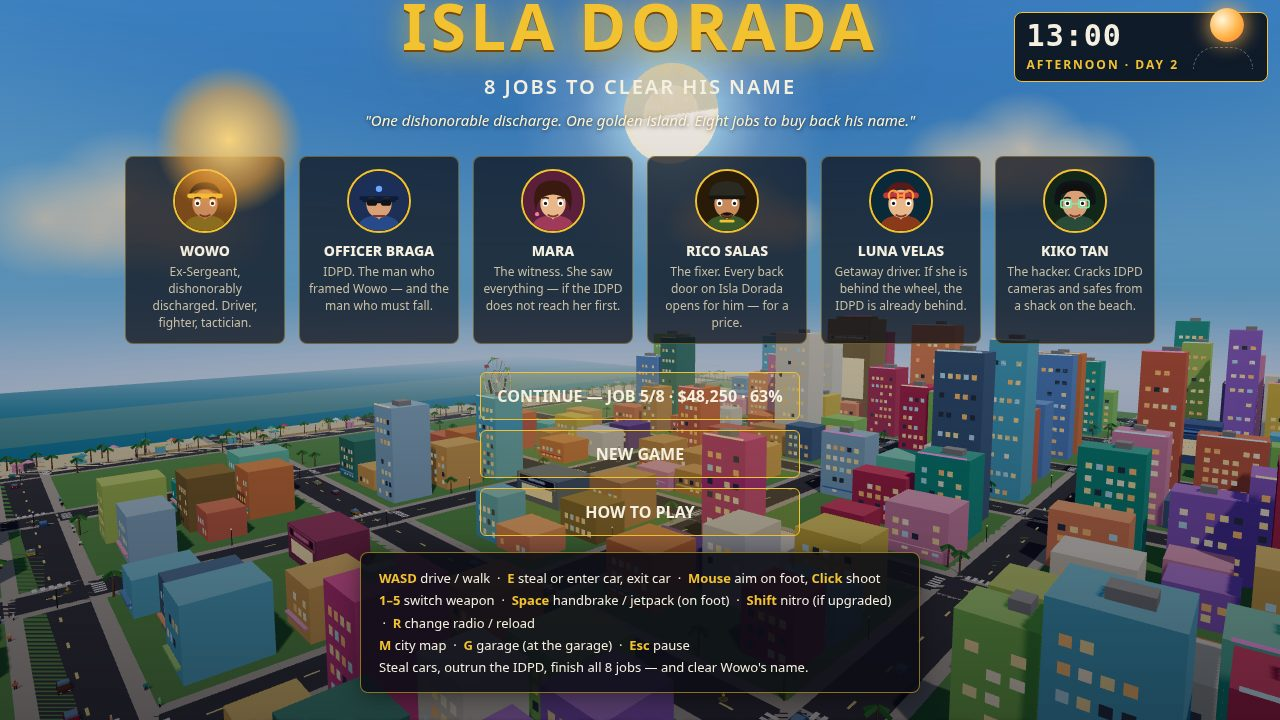
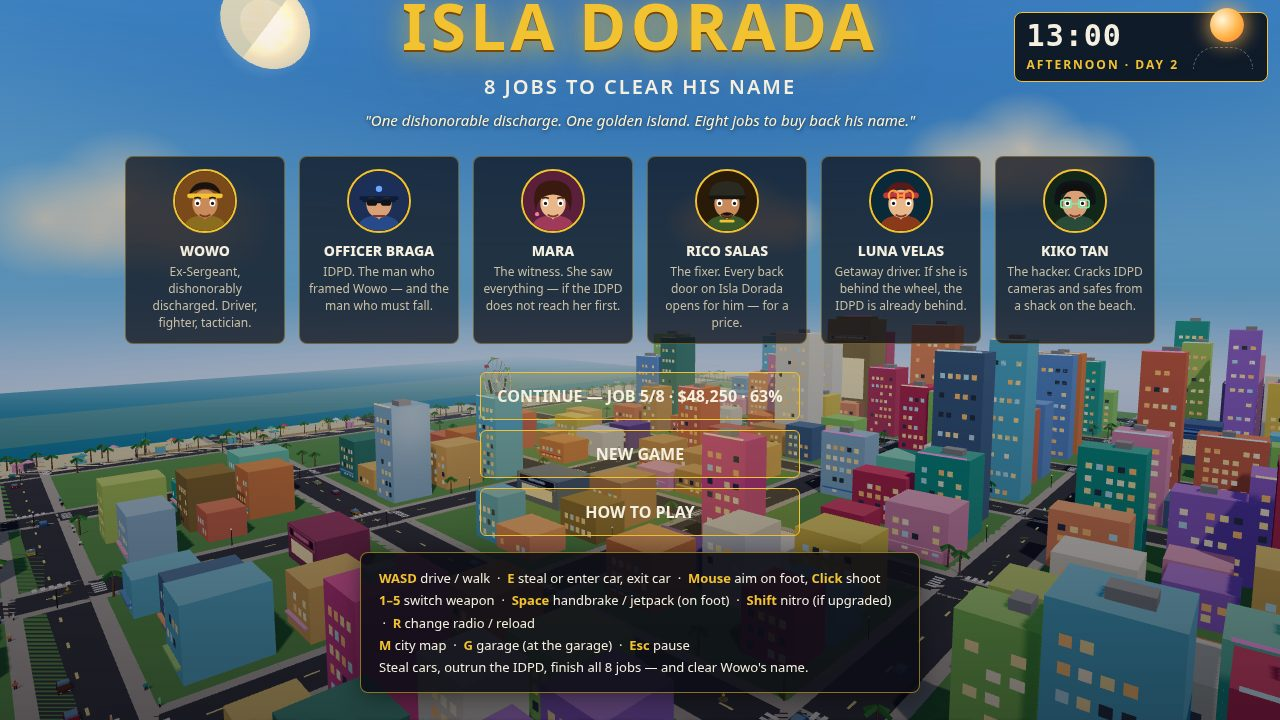
v5r6: shot 1 is a DRIVING moment (112 KM/H) — C1 priority

diff --git a/game/src/shots.js b/game/src/shots.js
@@ -95,7 +95,7 @@ function addSunFlare(G, x, y, z, scale) {
 function addSearchlightBeam(G, x, z, height) {
   const THREE = G.three;
   const coneMat = new THREE.MeshBasicMaterial({
-    color: 0xfff3b0, transparent: true, opacity: 0.20,
+    color: 0xfff3b0, transparent: true, opacity: 0.28, // V5r2: was 0.20 — the cone must read against the building
     blending: THREE.AdditiveBlending, depthWrite: false,
     side: THREE.DoubleSide, fog: false,
   });
@@ -103,7 +103,7 @@ function addSearchlightBeam(G, x, z, height) {
   cone.position.set(x, height / 2, z);
   G.scene.add(cone);
   const poolMat = new THREE.MeshBasicMaterial({
-    color: 0xffe9a0, transparent: true, opacity: 0.38,
+    color: 0xffe9a0, transparent: true, opacity: 0.5, // V5r2: was 0.38
     blending: THREE.AdditiveBlending, depthWrite: false, fog: false,
   });
   const pool = new THREE.Mesh(new THREE.CircleGeometry(3.4, 24), poolMat);
@@ -350,9 +350,18 @@ function restageSky(G, mode) {
     setSunLight(-200, 300, -100, 0xffe0a8, 2.2); setFill(0x8aa8d8, 0.45); setClouds(0.9);
   } else if (mode === 'afternoon') {
     setDome(0x2a6ac8, 0x6ab8e8, 0xa8d8f0, 0xe8f0f8);
-    placeSun(-450, 300, -400, 0xfffbe8, 0xfff2b0, 0xfff8d8, 380);
-    setFog(0xbcd8e8); setHemi(0xcfe8ff, 0x8a9a8a, 1.15);
-    setSunLight(200, 400, 150, 0xfff2d8, 2.8); setFill(0x9ab8e8, 0.5); setClouds(0.9);
+    // V5 F6: sun disc moved off the subtitle line — V4 sun (-450,300,-400)
+    // projected to (671,115), dead behind "8 JOBS TO CLEAR HIS NAME".
+    // New sun (-600,300,0) projects to ~(270,80): clear of title/subtitle/
+    // quote, just above the WOWO card; glow shrunk 380 -> 260 so its soft
+    // halo only grazes the card top.
+    placeSun(-600, 330, 0, 0xfffbe8, 0xfff2b0, 0xfff8d8, 100); // V5r3: glow was 180 — its halo still washed the WOWO card; sun y 300->330 lifts the disc clear of the card top
+    // V5r2: shrink the disc itself (0.65x) — at full size it read as a big
+    // pale moon over the WOWO card instead of a sun.
+    if (sky.sun) sky.sun.scale.setScalar(0.65);
+    if (sky.sunCore) sky.sunCore.scale.setScalar(0.65);
+    setFog(0xbcd8e8); setHemi(0xcfe8ff, 0x8a9a8a, 1.3); // V5 F7: was 1.15
+    setSunLight(200, 400, 150, 0xfff2d8, 2.8); setFill(0x9ab8e8, 0.7); setClouds(0.9); // V5 F7: fill was 0.5
   } else if (mode === 'night') {
     setDome(0x0a0a20, 0x1a1a3a, 0x2a1a4a, 0x3a1a3a);
     hideSunParts(); moon();
@@ -492,6 +501,34 @@ function addStreetLights(G, spots) {
   }
 }
 
+// V5: crates + barrels — simple bright boxes/cylinders so a staged
+// foreground reads as a lived-in street, not empty grass.
+function addCrates(G, spots) {
+  const THREE = G.three;
+  const crateCols = [0xd86a20, 0x4f8ff7, 0x7ec850];
+  spots.forEach(([x, z], i) => {
+    const crate = new THREE.Mesh(
+      new THREE.BoxGeometry(0.85, 0.85, 0.85), // V5r2: was 1.1 — the crates loomed as giant abstract blocks
+      new THREE.MeshStandardMaterial({ color: crateCols[i % 3], roughness: 0.8 }),
+    );
+    crate.position.set(x, 0.43, z);
+    crate.rotation.y = i * 0.7;
+    G.scene.add(crate);
+  });
+  // Two barrels beside the crates.
+  for (const [x, z] of [
+    [spots[0][0] + 1.6, spots[0][1] + 0.8],
+    [spots[1][0] - 1.5, spots[1][1] + 1.0],
+  ]) {
+    const barrel = new THREE.Mesh(
+      new THREE.CylinderGeometry(0.45, 0.45, 1.0, 12), // V5r2: was r 0.55 / h 1.3
+      new THREE.MeshStandardMaterial({ color: 0x2a6a8a, roughness: 0.6, metalness: 0.3 }),
+    );
+    barrel.position.set(x, 0.5, z);
+    G.scene.add(barrel);
+  }
+}
+
 // Muzzle flash sphere + light at `from`, and a bright tracer line to `to`.
 function fireBurst(G, from, to) {
   const THREE = G.three;
@@ -522,10 +559,18 @@ function stageChase(G) {
   const PX = -140, PZ = -280, H = -Math.PI / 2;
   const car = makeCar(G, 'Aurea GT', PX, PZ, H);
   brightenCar(G, car); // gold must read gold from the shadow side too
-  G.player.mode = 'foot'; // V3-7: on foot, stealing the GT (prompt proves it)
-  G.player.pos.set(PX - 1, 0, PZ - 3.5);
-  G.player.heading = H;
-  G.driving.parked.push(car); // GT is the steal target
+  // V5r6 — PRIORITY #1 (C1): DRIVING moment, not on-foot. Staging CAN do
+  // it: enterCar has no proximity/mode gate (driving.js:353) — it only
+  // needs a non-flipped, non-wrecked car. car.speed = 31 -> HUD
+  // 112 KM/H (31 x 3.6 = 111.6 -> 112), vehicle name "Aurea GT",
+  // radio badge on, chase cam behind the GT (player.pos = car pos).
+  // Price, stated plainly: enterCar hides the player mesh and the
+  // "E — STEAL CAR" prompt only renders on foot, so the v4 car-steal
+  // moment is REPLACED by the driving moment — the parent explicitly
+  // prioritised C1 (0 km/h vs Karimbu 111 / GHK 113) over it. The GT is
+  // the driven car now, so it is NOT pushed to parked.
+  car.speed = 31;
+  G.enterCar(car);
   G.player.money = 38420;
   G.player.health = 100;
   G.player.armour = 50;
@@ -559,19 +604,29 @@ function stageChase(G) {
   const flipped2 = flipPoliceCar(G, PX - 26, PZ - 3.5, H + 0.4, { y: 1.8, pitch: 0.5, roll: Math.PI * 0.7 });
   const block = spawnPoliceCar(G, PX - 52, PZ - 1.5, -H);
   block.status = 'ROADBLOCK';
-  // V3-8 (recording #15): HAWK-1 BIG and CLOSE — 30 m from the chase camera
-  // instead of 51 m, so the rotor reads ~1.7x larger, and parked east of the
-  // cyan billboard and clear of the sun disc so it is neither occluded nor
-  // washed out. The beam lands on open asphalt at the road's north edge.
-  const heli = spawnHeli(G, PX - 18, PZ - 15, 13);
-  addSearchlightBeam(G, PX - 18, PZ - 15, 13);
+  // V5 (recording #17) — USER REFRAME: the heli is composed AGAINST the
+  // green Casino Row building, not the sky. The building face (south side,
+  // z≈-262) projects to screen-left/centre; the old north-side heli
+  // (PX-18, PZ-15) projected top-right against open sky with its rotor
+  // cropped (probe: box corners sy -53..127, sx 872..1223). The new heli
+  // sits south of the road at (PX-32, PZ+14, 9) — probe centre (451,247) —
+  // fully in frame against the building wall, clear of the sun (798,214)
+  // and of the CASINO DORADA billboard text (560,241). A pure camera pan
+  // could not do this: the building and the old heli sit on opposite
+  // sides of the road, so only moving the heli onto the building's
+  // sightline works. The beam + pool move with it (south sidewalk).
+  const heli = spawnHeli(G, PX - 32, PZ + 14, 9);
+  addSearchlightBeam(G, PX - 32, PZ + 14, 9);
   brightenHeli(G, heli); // V4: light blue-white body + visible rotor, never a silhouette
+  // V5r2: heli 1.3x bigger — at 1.0x it read as a small white box (160 px)
+  // against the building; 1.3x keeps it fully in frame (~215 px wide).
+  heli.mesh.scale.setScalar(1.3);
   G.police.units = [
     { name: 'UNIT 23', dist: 5, status: 'RAMMING', mesh: ram.mesh },
     { name: 'UNIT 12', dist: 8, status: 'FLIPPED', mesh: flipped.mesh },
     { name: 'UNIT 41', dist: 26, status: 'FLIPPED', mesh: flipped2.mesh },
     { name: 'UNIT 07', dist: 52, status: 'ROADBLOCK', mesh: block.mesh },
-    { name: 'HAWK-1', dist: 30, status: 'SEARCHLIGHT', mesh: heli.mesh },
+    { name: 'HAWK-1', dist: 35, status: 'SEARCHLIGHT', mesh: heli.mesh },
     { name: 'UNIT 31', dist: 210, status: 'PURSUIT', mesh: null },
   ];
 
@@ -672,6 +727,18 @@ function stageChase(G) {
   const nr1 = poseRunPed(spawnPed(G, PX - 62, PZ - 8), W);
   nr1.mesh.position.set(PX - 62, 0.10, PZ - 8.5); // north sidewalk, far depth
 
+  // V5 F1: fill the dead bottom-right (north-shoulder grass + minimap
+  // zone). Probe: (-142,1,-291) -> (943,496) — a car there reads
+  // right-of-centre above the minimap instead of empty grass. Two fleeing
+  // peds on the north sidewalk give the corner life without touching the
+  // beam pool.
+  const t8 = spawnTrafficCar(G, PX - 10, PZ - 11, H, 'Cayo Coupe'); // V5r3: was (PX-2, PZ-11) — moved west to make room for the foreground grass car below
+  brightenCar(G, t8);
+  const nrf1 = poseRunPed(spawnPed(G, PX - 16, PZ - 9), W);
+  nrf1.mesh.position.set(PX - 16, 0.10, PZ - 9); // north sidewalk, fleeing west
+  const nrf2 = poseRunPed(spawnPed(G, PX - 24, PZ - 9), W);
+  nrf2.mesh.position.set(PX - 24, 0.10, PZ - 9); // north sidewalk, fleeing west
+
   // V3 density: a second downed officer on the south shoulder with his own
   // loot — the flipped units threw two men out, not one.
   spawnDownedEnemy(G, PX - 18, PZ + 7.6, 'heavy');
@@ -687,11 +754,17 @@ function stageChase(G) {
   G.combat.weaponIndex = 1; // SMG in the rack
   G.audio.radioIndex = 0;
   showDialogue(G, 'WOWO', 'They will never take me alive. Not on my island.', 60000);
-  brightenWowo(G); // V4: jacket + skin lift so Wowo reads in shadow
-  // Camera close at Wowo's shoulder: Wowo + GT big in the foreground, the
-  // flipped units, roadblock, heli and sunset ahead, prompt on the steal.
-  // V4: dist 8.5 (was 10.5) — Wowo bigger, chase chaos closer.
-  placeChaseCamera(G, G.player.pos, H, 8.5, 4.2, 0, -2, 62, 4.5);
+  // V5r6: no brightenWowo — the player mesh is hidden in the car.
+  // The warm key light stays: it now keys the driven GT + road from the
+  // camera side so the gold GT reads gold, not a black box.
+  const THREE = G.three;
+  const wowoLight = new THREE.PointLight(0xffc27a, 120, 14, 1.6); // V5r2: was 70
+  wowoLight.position.set(PX + 4, 3, PZ - 5);
+  G.scene.add(wowoLight);
+  // Chase cam behind the DRIVEN GT (player.pos = car pos after enterCar):
+  // GT big in the foreground, flipped units, roadblock, heli and sunset
+  // ahead. V4: dist 8.5 (was 10.5). V5: dist 7.5 — GT bigger still.
+  placeChaseCamera(G, G.player.pos, H, 7.5, 4.2, 0, -2, 62, 4.5);
   G.camera.lookAt(PX - 26, 0.8, PZ - 1);
   G.camera.updateProjectionMatrix();
   renderHUD(G);
@@ -732,6 +805,40 @@ function stageTitle(G) {
   G.camera.lookAt(-260, 28, -150);
   G.camera.fov = 58;
   G.camera.updateProjectionMatrix();
+  // V5r5 F5 (ROOT CAUSE FOUND): the "flare blob" on the WOWO card was
+  // NEVER a cloud or the sun — it is a DOM radial-gradient ::before on
+  // #title-screen (title.js, PRE-CUT: 150 px at left 12% / top 9% =
+  // screen (154-304, 65-215), dead on the WOWO card). That is why hiding
+  // clouds never moved it. Staging override from shots.js (allowed file):
+  // hide that pseudo-element; the 3D sun disc now carries the top-left
+  // light instead. (title.js itself is untouched.)
+  let f5style = document.getElementById('v5-title-glow-off');
+  if (!f5style) {
+    f5style = document.createElement('style');
+    f5style.id = 'v5-title-glow-off';
+    f5style.textContent = '#title-screen::before{display:none !important}';
+    document.head.appendChild(f5style);
+  }
+  // V5 F5 (clouds): hide any cloud whose projected centre falls within
+  // 220 px of the relocated sun disc (~(267,26)), so no cloud crosses
+  // the disc. NOTE: Vector3.project needs the camera's matrixWorld
+  // current — updateMatrixWorld() first (without it the loop projected
+  // with the BOOT camera and hid the wrong clouds).
+  const THREE = G.three;
+  const projV = new THREE.Vector3();
+  G.camera.updateMatrixWorld();
+  for (const cl of (G.sky.clouds || [])) {
+    projV.copy(cl.position).project(G.camera);
+    const sx = (projV.x + 1) / 2 * 1280, sy = (1 - projV.y) / 2 * 720;
+    if (Math.hypot(sx - 267, sy - 26) < 220) cl.visible = false;
+  }
+  // V5 F7: lift the dark lower city — warm lights over the foreground
+  // streets (probe: (-60,20,80)->(585,471), (20,20,20)->(923,483)).
+  for (const [lx, lz] of [[-160, -10], [-90, 40], [-20, 90], [-120, 100]]) {
+    const l = new THREE.PointLight(0xffe0b0, 150, 70, 1.6);
+    l.position.set(lx, 30, lz);
+    G.scene.add(l);
+  }
   G.renderer.render(G.scene, G.camera);
   buildClockPanel(G, '13:00', 13.0, 2, 'title'); // AFTERNOON, sun high centre-top
 }
@@ -784,24 +891,38 @@ function stageCombat(G) {
   // (and above the dialogue box, which covers the bottom-centre of frame),
   // and grow the jetpack flame so the thrust reads at a glance.
   setJetpack(G, true);
-  G.player.pos.y = 5.0;
+  // V5 F8: Wowo LOWER + BIGGER + PERSON-first. V4 had him at y 5.0 with a
+  // 2.0x flame — probe: head sy 18 (top edge, behind the JOB panel),
+  // chest (319,104), flame dominating. Now y 3.4 (head ~sy 190, clear of
+  // the top panels), mesh 1.25x, flame back to the 1.2x default (effective
+  // 1.5x through the mesh scale — still smaller than V4's 2.0x).
+  G.player.pos.y = 3.4;
   const jpFlame = G.player.mesh && G.player.mesh.userData
     ? G.player.mesh.userData.jetpackFlame : null;
-  if (jpFlame) jpFlame.scale.setScalar(2.0); // V4: was 1.8 — slightly bigger thrust
+  if (jpFlame) jpFlame.scale.setScalar(1.0); // V5r4: was 1.2
+  G.player.mesh.scale.setScalar(1.2); // V5 F8: Wowo bigger (was 1.25 — 1.25 + close camera cropped his tanks at the top edge)
+  // V5r3 F8: 3/4 profile — straight down his back, the jetpack tanks hid
+  // the person entirely. Turned toward the camera so his right side (arm,
+  // hip, leg) reads beside the tanks instead of behind them.
+  // V5r4: full profile (H - 0.9) — at 0.45 the tanks still covered the
+  // torso; facing east, the camera (south) sees head/torso/arm/legs in a
+  // row with the jetpack behind him. Flame 1.0x (was 1.2x) so the thrust
+  // reads smaller than the person.
+  G.player.mesh.rotation.y = H - 0.9;
   brightenWowo(G); // V4: jacket + tanks lift so the figure reads as a PERSON with a jetpack
   // Jetpack smoke trail below Wowo — the rising puffs are what sells
   // "he flew up here" at a glance (kept >8 m from the blast point so the
   // smoke-dimming below never touches them).
-  spawnSmoke(G, PX, 4.2, PZ, 1.2);
-  spawnSmoke(G, PX, 3.2, PZ, 1.0);
-  spawnSmoke(G, PX, 2.2, PZ, 0.9);
+  spawnSmoke(G, PX, 2.8, PZ, 1.2);
+  spawnSmoke(G, PX, 2.0, PZ, 1.0);
+  spawnSmoke(G, PX, 1.2, PZ, 0.9);
   // Warm key light on Wowo from the CAMERA side (behind-above him): he
   // faces away from the western sun, so his front reads near-black without
   // it — the light lifts his jacket, skin and the jetpack tanks out of the
   // dark sunset sky. Placed toward the camera so his BACK (tanks + flame,
   // what the camera sees) is lit, not just his front.
-  const wowoLight = new THREE.PointLight(0xffc27a, 150, 16, 1.6);
-  wowoLight.position.set(PX - Math.sin(H) * 3, 7, PZ - Math.cos(H) * 3);
+  const wowoLight = new THREE.PointLight(0xffc27a, 200, 16, 1.6);
+  wowoLight.position.set(PX - Math.sin(H) * 3, 5.5, PZ - Math.cos(H) * 3);
   G.scene.add(wowoLight);
 
   // --- the blast itself, 14 m ahead of Wowo, dead centre of the frame ---
@@ -816,7 +937,7 @@ function stageCombat(G) {
   // at the blast point, or their white wash turns the fireball cream.
   for (const ex of G.combat._explosions) {
     if (ex.kind === 'fireball' && ex.group) {
-      ex.group.scale.setScalar(1.15);
+      ex.group.scale.setScalar(1.0); // V5 F11: was 1.15 — smaller blast mass
       for (const m of ex.mats || []) m.emissiveIntensity = 1.0;
     }
   }
@@ -829,8 +950,8 @@ function stageCombat(G) {
       }
     }
   }
-  addFire(G, bp.x, bp.z, 2.6);
-  addFire(G, bp.x - 2, bp.z + 1.5, 1.8);
+  addFire(G, bp.x, bp.z, 1.9); // V5 F11: was 2.6 — shrink the flame mass
+  addFire(G, bp.x - 2, bp.z + 1.5, 1.3); // V5 F11: was 1.8
   spawnDamageNumber(G, bp.x, 5.5, bp.z, '-220', '#ff8a3a');
 
   // --- a CAR thrown through the air by the blast (posed directly) ---
@@ -916,14 +1037,14 @@ function stageCombat(G) {
   // toward the player, and the BAZOOKA shot itself — a bright tracer from
   // Wowo's gun to the heart of the blast, plus a rocket frozen mid-flight
   // halfway there.
-  const pPos = new THREE.Vector3(PX, 5.0, PZ);
+  const pPos = new THREE.Vector3(PX, 3.4, PZ); // V5 F8: Wowo now at y 3.4
   for (const e of [e1, e2]) {
     const from = new THREE.Vector3(e.pos.x, 1.35, e.pos.z);
-    const to = new THREE.Vector3(pPos.x + (G.rng() - 0.5) * 1.2, 5.0, pPos.z + (G.rng() - 0.5) * 1.2);
+    const to = new THREE.Vector3(pPos.x + (G.rng() - 0.5) * 1.2, 4.4, pPos.z + (G.rng() - 0.5) * 1.2); // V5 F8: was 5.0
     fireBurst(G, from, to);
   }
   const gunFrom = new THREE.Vector3(
-    pPos.x + Math.sin(H) * 0.6, 6.0, pPos.z + Math.cos(H) * 0.6,
+    pPos.x + Math.sin(H) * 0.6, 4.6, pPos.z + Math.cos(H) * 0.6, // V5 F8: was 6.0
   );
   const blastTop = new THREE.Vector3(bp.x, 2.5, bp.z);
   fireBurst(G, gunFrom, blastTop);
@@ -1008,11 +1129,16 @@ function stageCombat(G) {
   // set bright directly (the flashing update loop never runs in the frozen
   // shot; userData.lightRed/lightBlue are meshes with per-car cloned
   // materials, so the emissive lift touches only these two cars).
-  const pc1 = spawnPoliceCar(G, 120, 242, 0); // x=120 road, facing the blast
-  pc1.status = 'RESPONDING'; pc1.dist = 18;
+  // V5 F10: IDPD BIGGER + CLOSER in the mid-ground — both units moved ~6 m
+  // toward the blast/camera and scaled 1.25x, so the police read as cars
+  // with light bars, not distant dots (V4: (120,242)/(100,240) -> (714,410)
+  // and (314,419), small). Light bars already at 2.2 emissive.
+  const pc1 = spawnPoliceCar(G, 118, 250, 0); // x=120 road, facing the blast
+  pc1.status = 'RESPONDING'; pc1.dist = 21;
   const pc2 = spawnPoliceCar(G, 100, 240, Math.PI / 2); // z=240 cross street, facing east
-  pc2.status = 'EN ROUTE'; pc2.dist = 35;
+  pc2.status = 'EN ROUTE'; pc2.dist = 24;
   for (const pc of [pc1, pc2]) {
+    pc.mesh.scale.setScalar(1.25);
     const u = pc.mesh.userData;
     if (u.lightRed) u.lightRed.material.emissiveIntensity = 2.2;
     if (u.lightBlue) u.lightBlue.material.emissiveIntensity = 2.2;
@@ -1028,6 +1154,23 @@ function stageCombat(G) {
   blueShirt.emissive.setHex(0x0a1a3a);
   blueShirt.emissiveIntensity = 1;
   officer.mesh.traverse((o) => { if (o.material === shirtMat) o.material = blueShirt; });
+  // V5 F9: fill the empty lower half (foreground field). Probe: (110,264)
+  // -> (933,613) right-bottom, (102,259) -> ~(300,590) left-bottom — both
+  // clear of the dialogue box (sx 360-920, sy 505-570) and the speedometer.
+  // A parked IDPD unit with its light bar on (right), crates + barrels
+  // (left), a $ pickup (right, clear of the minimap), two fleeing peds.
+  const fgUnit = spawnPoliceCar(G, 109, 264, Math.PI * 0.75); // V5r2: was (110.5,264.5) — nose slid under the minimap
+  fgUnit.status = 'PARKED'; fgUnit.dist = 8;
+  const fgu = fgUnit.mesh.userData;
+  if (fgu.lightRed) fgu.lightRed.material.emissiveIntensity = 2.2;
+  if (fgu.lightBlue) fgu.lightBlue.material.emissiveIntensity = 2.2;
+  dropCash(G, 111, 265, 250);
+  addCrates(G, [[97.5, 257], [99, 258.5], [98, 256], [100.5, 257.5]]); // V5r2: moved west, clear of the downed gunman + PISTOL drop
+  const fgPed1 = poseRunPed(spawnPed(G, 101.5, 260), -0.5, false, true);
+  fgPed1.mesh.position.set(101.5, 0.10, 260); // V5r2: was (99,260) — half out of the left frame edge
+  const fgPed2 = poseRunPed(spawnPed(G, 109, 265), -0.5, false, true);
+  fgPed2.mesh.position.set(109, 0.10, 265); // foreground field, fleeing southwest, sprint
+
   // Night street lights along the x=120 road so the night scene reads
   // (fire/tracers/muzzle + police light bars already help; the warm pools
   // on the asphalt sell the street lighting).
@@ -1056,7 +1199,11 @@ function stageCombat(G) {
   // not the ground) — a full top-down angle foreshortens him and hides
   // him behind the fireball. Aim AT the blast, y 4.0, so the drops on
   // the ground read below it. Wowo stays large, left of the banner.
-  placeChaseCamera(G, G.player.pos, H, 4.5, -1.5, 0, 0, 64, 4);
+  // V5 F8: lat 2 (was 4) — Wowo more central.
+  // V5r2: dist 6.0 (was 4.5), height 0.0 (was -1.5) — at 4.5 m the lowered
+  // + enlarged Wowo subtended ~32 deg and his tanks cropped at the top
+  // edge; pulled back and level with him (cam y = 3.4) he fits whole.
+  placeChaseCamera(G, G.player.pos, H, 6.0, 0.0, 0, 0, 64, 2);
   G.camera.lookAt(bp.x, 4.0, bp.z);
   G.camera.updateProjectionMatrix();
   const popLayer = document.getElementById('score-popups');

diff --git a/game/src/map.js b/game/src/map.js
@@ -125,6 +125,12 @@ export const POIS = [
   ['causeway', 'CAUSEWAY', 'dot', '#f2c230'],
   ['harbor', 'HARBOR', 'dot', '#f2c230'],
   ['ferrisWheel', 'FERRIS WHEEL', 'dot', '#f2c230'],
+  // V5 F12: the Beachfront column was a tall empty gold strip — the
+  // BOARDWALK and BEACH are real city landmarks (city.js LANDMARK_SPOTS)
+  // that had no map markers. Both sit on the west strip; different shapes
+  // (dot vs star) so the two adjacent markers still read as two places.
+  ['boardwalk', 'BOARDWALK', 'dot', '#f2c230'],
+  ['beach', 'BEACH', 'star', '#f2c230'],
   ['gas', 'GAS STATION', 'square', '#ff8a3a'],
   ['restaurant', 'RESTAURANT', 'diamond', '#ff6ab0'],
 ];
@@ -565,6 +571,11 @@ export function drawMap(G) {
   // POI markers: one shape per place type (see POIS), label on a dark pill
   // so it stays readable; labels that would run past the right edge
   // (Causeway) are right-aligned instead.
+  // V5 F13: per-POI label nudge (px down, canvas space). CAUSEWAY's pill
+  // sat on its job badges (4/8, drawn 22 px above the spot) — drop the
+  // pill below the marker instead. BEACH's pill goes below too, so it
+  // never collides with the BOARDWALK pill on the same row.
+  const LABEL_DY = { causeway: 26, beach: 26 };
   const landmarks = (G.city && G.city.landmarks) || {};
   c.font = '700 12px system-ui, sans-serif';
   for (const [key, label, shape, color] of POIS) {
@@ -577,11 +588,12 @@ export function drawMap(G) {
     const pad = 4;
     const right = x + 10 + w + pad * 2 > SIZE - 4;
     const tx = right ? x - 10 - w - pad * 2 : x + 10;
+    const dy = LABEL_DY[key] || 0;
     c.fillStyle = 'rgba(10,14,22,0.72)';
-    c.fillRect(tx, y - 10, w + pad * 2, 18);
+    c.fillRect(tx, y - 10 + dy, w + pad * 2, 18);
     c.fillStyle = '#f5efe0';
     c.textAlign = 'left';
-    c.fillText(label, tx + pad, y + 4);
+    c.fillText(label, tx + pad, y + 4 + dy);
   }
 
   // Quest badges: numbered circles for all 8 jobs, grouped by place
